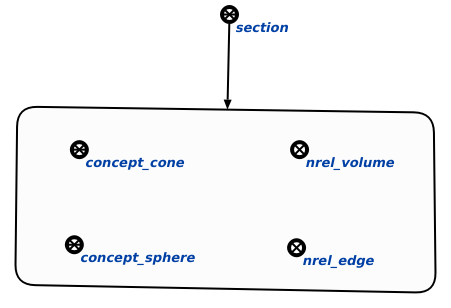
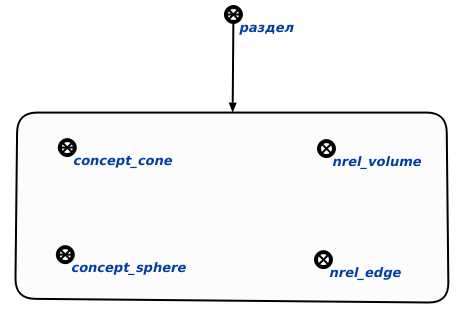
added new corrections

diff --git a/kb/eekb/agent_of_finding_sc_elements_without_any_main_identifier/agent_component/lib_component_ui_menu_file_for_finding_sc_elements_without_any_main_identifier/htmls/UI_finding_sc_elements_without_any_main_identifier.html b/kb/eekb/agent_of_finding_sc_elements_without_any_main_identifier/agent_component/lib_component_ui_menu_file_for_finding_sc_elements_without_any_main_identifier/htmls/UI_finding_sc_elements_without_any_main_identifier.html
@@ -5,7 +5,7 @@
 </head>
 <body>
 	<p>
-		<b><sc_element sys_idtf = "ui_menu_file_for_finding_sc_elements_without_any_main_identifier">Команда поиска sc-элементов, имеющих системный идентификатор, но не имеющих ни одного основного</sc_element></b> предназначена для поиска <b><sc_element sys_idtf = "sc_element">sc-элементов</sc_element></b>, имеющих системный идентификатор, но не имеющих ни одного основного. Единственным аргументом запроса является <b><sc_element sys_idtf="section">раздел</sc_element></b>. Результатом выполнения команды является исправленный <b><sc_element sys_idtf="section">раздел</sc_element></b>. Пример <b><sc_element sys_idtf = "ui_menu_file_for_finding_sc_elements_without_any_main_identifier">поиска sc-элементов, имеющих системный идентификатор, но не имеющих ни одного основного</sc_element></b> показан ниже (слева - исходный <b><sc_element sys_idtf="section">раздел</sc_element></b> для замены, справа - исправленный <b><sc_element sys_idtf="section">раздел</sc_element></b>):
+		<b><sc_element sys_idtf = "ui_menu_file_for_finding_sc_elements_without_any_main_identifier">Команда поиска sc-элементов, имеющих системный идентификатор, но не имеющих ни одного основного</sc_element></b> предназначена для поиска <b><sc_element sys_idtf = "sc_element">sc-элементов</sc_element></b>, имеющих системный идентификатор, но не имеющих ни одного основного. Единственным аргументом запроса является <b><sc_element sys_idtf="section">раздел</sc_element></b> базы знаний, в рамках которого анализируются sc-элементы на предмет наличия у них системного идентификатора и, как минимум, одного основного идентификатора. Результатом выполнения команды является структура, содержащая sc-элементы без единого основного идентификатора. Пример выполнения команды представлен ниже (слева - исходный раздел базы, справа - сформированная структура):
 	</p>
 	<img src="before.png" alt="Исходный раздел"/>
  	<img src="after.png" alt="Исправленный раздел"/>

diff --git a/kb/eekb/agent_of_finding_sc_elements_without_any_main_identifier/agent_component/lib_component_agent_of_finding_sc_elements_without_any_main_identifier/htmls/Agent_of_finding_sc_elements_without_any_main_identifier.html b/kb/eekb/agent_of_finding_sc_elements_without_any_main_identifier/agent_component/lib_component_agent_of_finding_sc_elements_without_any_main_identifier/htmls/Agent_of_finding_sc_elements_without_any_main_identifier.html
@@ -5,7 +5,7 @@
 </head>
 <body>
 	<p>
-		Задачей <b><sc_element sys_idtf = "agent_of_finding_sc_elements_without_any_main_identifier"> агента поиска sc-элементов, имеющих системный идентификатор, но не имеющих ни одного основного</sc_element></b> является поиск <b><sc_element sys_idtf = "sc_element">sc-элементов</sc_element></b>, имеющих системный идентификатор, но не имеющих ни одного основного. Данный агент инициируется при условии появления в памяти вопросной конструкции, соответствующей <b><sc_element sys_idtf = "action_to_find_sc_elements_without_any_main_identifier">запросу поиска sc-элементов, имеющих системный идентификатор, но ни одного основного</sc_element></b>. Единственным аргументом запроса является <b><sc_element sys_idtf="section">раздел</sc_element></b>.
+		Задачей <b><sc_element sys_idtf = "agent_of_finding_sc_elements_without_any_main_identifier"> агента поиска sc-элементов, имеющих системный идентификатор, но не имеющих ни одного основного</sc_element></b> является поиск <b><sc_element sys_idtf = "sc_element">sc-элементов</sc_element></b>, имеющих системный идентификатор, но не имеющих ни одного основного. Данный агент инициируется при условии появления в памяти вопросной конструкции, соответствующей <b><sc_element sys_idtf = "action_to_find_sc_elements_without_any_main_identifier">запросу поиска sc-элементов, имеющих системный идентификатор, но ни одного основного</sc_element></b>. Единственным аргументом запроса является <b><sc_element sys_idtf="section">раздел</sc_element></b> базы знаний, в рамках которого анализируются sc-элементы на предмет наличия у них системного идентификатора и, как минимум, одного основного идентификатора.
 	</p>
 </body>
 </html>
